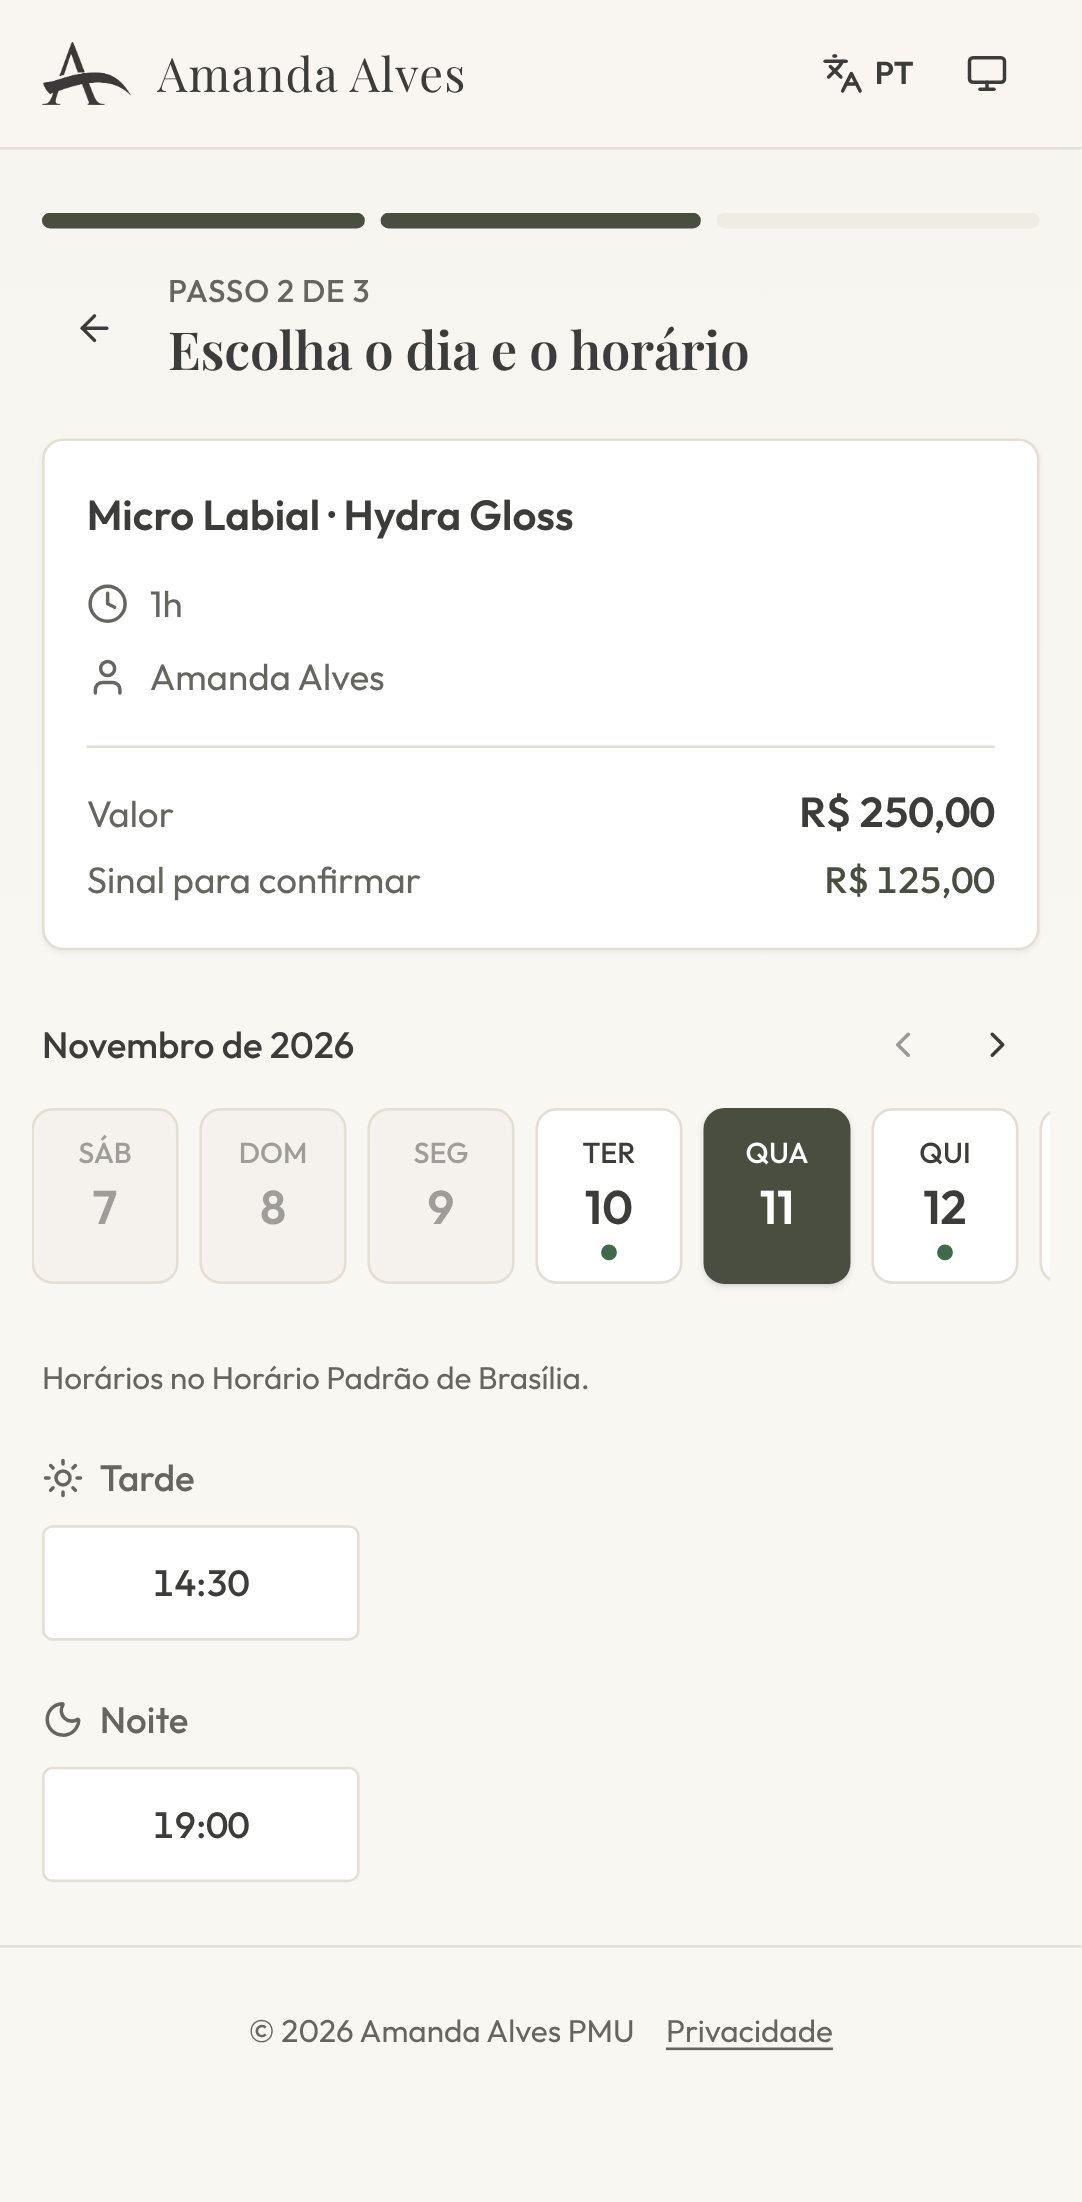
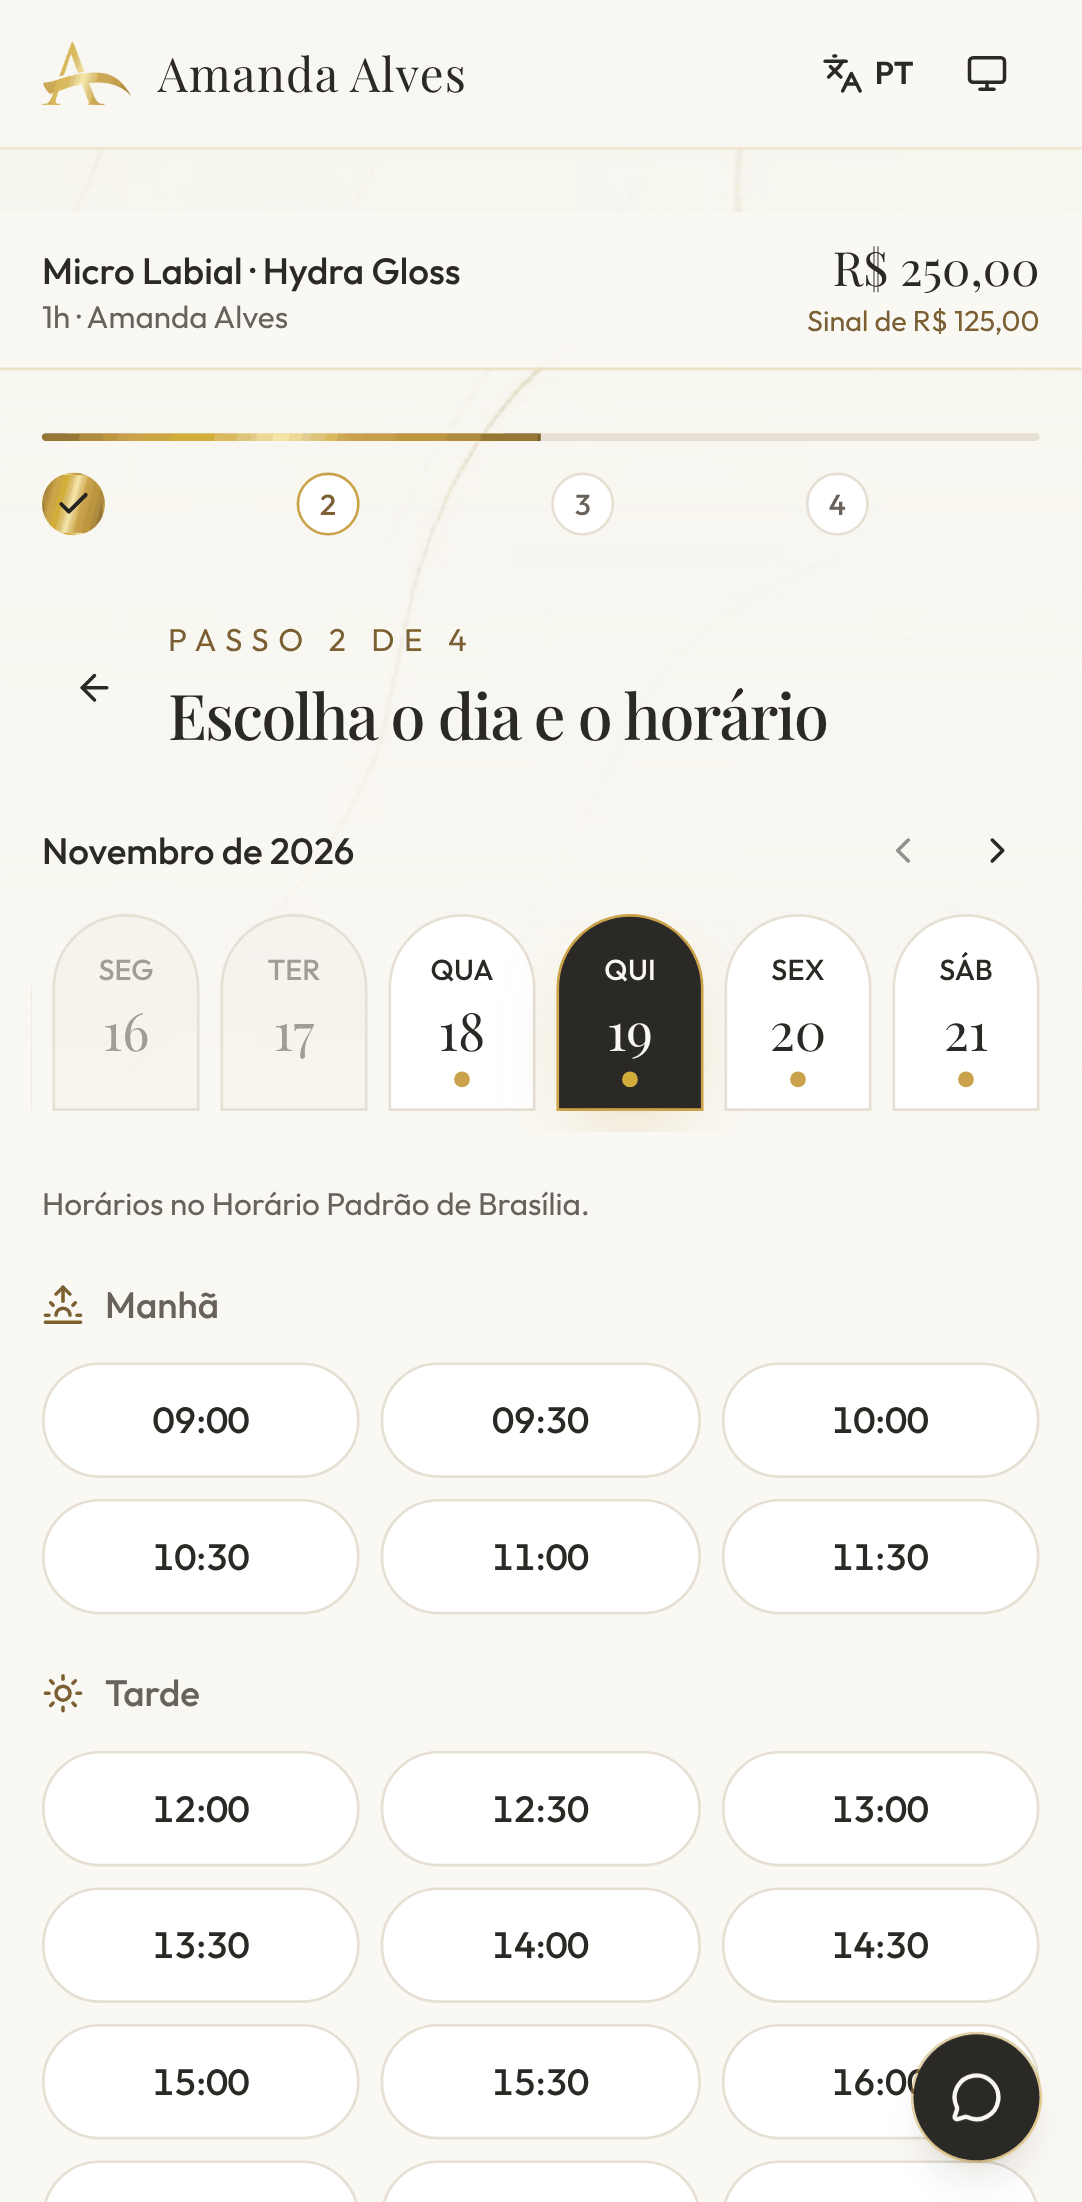
docs: linguagem visual do salão, novos tokens e capturas atualizadas
- 03-identidade-visual: o salão como referência (mármore, letreiro dourado,
  cerejeira, espelho em arco, pampas, porcelanato), paleta com contrastes
  medidos, componentes da marca e regras de movimento.
- Legenda [salão] para as fotos enviadas pela clínica; fotos do espaço
  marcadas como recebidas.
- README: capturas do celular com o novo visual (início em JPEG).

Claude-Session: https://claude.ai/code/session_01XJj2zzcky4VScEsN9baw3Q

diff --git a/docs/referencia-amanda-alves/03-identidade-visual-e-tom.md b/docs/referencia-amanda-alves/03-identidade-visual-e-tom.md
@@ -6,8 +6,11 @@ Minimalista, elegante, acolhedor e sofisticado. O foco é **naturalidade e
 autoestima**: muito espaço em branco, fotos do espaço e dos procedimentos e o
 símbolo decorativo **✦**.
 
-No app: fundo creme, cartões brancos, cantos retos, títulos em Playfair Display,
-rótulos em caixa alta espaçados e o ✦ como separador, como no site.
+No app: fundo marfim, títulos em Playfair Display, rótulos em caixa alta
+espaçados e o ✦ como separador, como no site — e, desde a versão "recepção",
+os **materiais do salão** (ver abaixo): ao abrir o app, a cliente deve sentir
+que acabou de entrar no espaço. Luxo discreto: rosa e dourado são **acentos**
+sobre uma base branca e limpa, com muito respiro.
 
 ## Tom de voz **[site]**
 
@@ -27,27 +30,46 @@ Chamadas usadas no site — use as mesmas no app:
 | “Agendar Avaliação Gratuita” | Serviço “Avaliação gratuita” (primeiro da lista) |
 | “Chamar no WhatsApp” / “Falar com a Amanda” | Botão flutuante na página pública (`VITE_WHATSAPP_CTA`) |
 
-## Paleta — **[site]** (com ajustes de acessibilidade)
+## O salão como referência **[salão]**
 
-Extraída do CSS do site oficial e aplicada como tokens em
-[`apps/web/src/index.css`](../../apps/web/src/index.css).
+As três fotos do espaço enviadas pela clínica (salão com parede de mármore e
+veios dourados, recepção com letreiro dourado iluminado, entrada com a
+cerejeira, o espelho em arco e o capim-dos-pampas) definem a linguagem visual.
+Elas aparecem na galeria "O espaço" em
+`apps/web/public/brand/espaco/` (AVIF/WebP em 480, 800 e 1125 px).
 
-| Cor do site | HEX | Uso no app |
+| Elemento do salão | Tradução no app | Onde |
 | --- | --- | --- |
-| Creme (fundo) | `#F9F7F2` | `--background` |
-| Fundo alternativo | `#EFECE6` | `--secondary` / `--muted` |
-| Texto | `#3C3C3B` | `--foreground` |
-| Texto claro | `#6E6E6E` → **`#666660`** | `--muted-foreground` (escurecido para 4,9:1 no fundo alternativo) |
-| Dourado | `#BFA070` | `--gold`: **só decoração** (✦, filetes, numeração grande) — 2,3:1 não serve para texto |
-| Dourado (texto) | **`#86683A`** | `--gold-text`: rótulos em caixa alta (4,8:1) |
-| Oliva | `#6B705C` | `--olive`, anel de foco |
-| Oliva escuro | `#4A4E40` | `--primary`: botões e links (texto branco 8,5:1) |
+| Mármore branco com veios dourados | Textura procedural leve (5–11 KB, AVIF/WebP) com veios que "se desenham" e parallax sutil | Hero, Procedimentos, faixa do agendamento |
+| Mármore escuro | Versão preta com veios dourados | Seção "Agende", cartão da avaliação |
+| Letreiro dourado iluminado | Logo em ouro (máscara + gradiente metálico) com brilho na entrada/hover e halo de LED | Hero, rodapé, cabeçalhos (monograma) |
+| Cerejeira | Ramos entrando pelos cantos, balançando como com brisa; 15–25 pétalas caindo | Hero, Depoimentos, confirmação do agendamento |
+| Espelho em arco com moldura dourada | Molduras em arco (`ArchFrame`) e dias do calendário em arco | A clínica, O espaço, resumo do agendamento |
+| Capim-dos-pampas / palha | Acento discreto em SVG | A clínica |
+| Porcelanato polido | Reflexo esmaecido da logo | Rodapé |
+| Spots quentes do trilho | Luz que acompanha o cursor (só desktop) | Hero, Agende |
 
-Tema escuro (o site não tem): fundo `#1C1D19`, texto `#F4F1EA`, primário dourado
-claro `#CDB287`; a logo é invertida automaticamente (`.brand-logo`).
+## Paleta — **[site]** + **[salão]** (com ajustes de acessibilidade)
 
-Cantos retos e discretos (4px), como no site. Contraste verificado pela
-auditoria automática (axe) nos testes E2E.
+Tokens em [`apps/web/src/index.css`](../../apps/web/src/index.css) (claro e escuro).
+
+| Papel | HEX | Uso |
+| --- | --- | --- |
+| Marfim (fundo) | `#FAF8F3` | `--background` |
+| Fundo alternativo | `#F2EEE7` | `--secondary` / `--muted` |
+| Texto | `#2B2926` | `--foreground` (13,7:1) |
+| Texto secundário | `#68625A` | `--muted-foreground` (5,7:1; 5,2:1 no alternativo) |
+| Preto fosco | `#1E1D1B` | `--ink`: seções escuras e rodapé |
+| Ouro (gradiente) | `#8A6A1F → #D4AF37 → #F6E7A8 → #C9A24B → #8A6A1F` | `--gold-metal`: logo, filetes, progresso. **Só decoração** no claro (2,3:1) |
+| Ouro dos botões | `#C9A24B → #E5C77A` | `--gold-button`, texto `#2B2926` (6,1:1) |
+| Ouro para texto | `#7C5F32` | `--gold-text`: rótulos e destaques pequenos (5,6:1; 5,1:1 no alternativo) |
+| Rosa cerejeira | `#F8E1E7 → #E79AB0` | `--blossom-*`: pétalas, fundo dos depoimentos — só detalhes |
+| Palha / greige / madeira | `#D8BFA0` / `#A39382` / `#5A3A2A` | Acentos de material |
+| Teal | `#2F5D62` | Micro-acento, com parcimônia |
+
+Tema escuro: fundo `#161513`, texto `#F4EFE6` (15,9:1), secundário `#B9B1A5`
+(8,6:1), ouro de texto `#D9B968` (9,6:1), botões em ouro `#D4AF37` com texto
+escuro (8,4:1). Regra: **ouro claro só como decoração ou sobre fundo escuro**.
 
 ## Tipografia — **[site]**
 
@@ -57,13 +79,45 @@ auditoria automática (axe) nos testes E2E.
 | Texto | **Outfit** | Mesma do site |
 | Rótulos | Outfit em caixa alta, espaçamento largo | Classe `.eyebrow` (“ESTÉTICA AVANÇADA ✦ NATURALIDADE”) |
 
-Licença SIL OFL, servidas pelo próprio app (`@fontsource-variable/*`).
+Licença SIL OFL, servidas pelo próprio app (`@fontsource-variable/*`), com
+preload das versões latinas.
+
+## Componentes da marca **[técnico]**
+
+Em `apps/web/src/components/brand/` e `components/motion/`:
+
+| Componente | Função |
+| --- | --- |
+| `MarbleBackground` | Parede de mármore (clara/escura), veios desenhados, parallax e spot de luz |
+| `GoldLogo` | Logo/monograma em ouro com brilho e halo |
+| `BlossomBranch` | Ramo de cerejeira com balanço e parallax |
+| `PetalFall` | Pétalas em canvas (ambiente ou chuva curta), carregado sob demanda |
+| `ArchFrame` | Moldura em arco com filete dourado |
+| `GlassCard` | Cartão de vidro fosco com borda dourada e reflexo no hover |
+| `GoldButton` | CTA em ouro, magnético no desktop, preenchimento de luz no hover |
+| `SpaceGallery` | Galeria assimétrica com lightbox (setas do teclado e botões) |
+| `Reveal` / `RevealText` | Entrada ao rolar e revelação de título palavra por palavra |
+| `PageTransition` | Links com transição "de porta" (View Transitions do navegador) |
+| `CursorLight`, `SmoothScroll` | Luz no cursor e rolagem suave (Lenis), só desktop |
+
+## Movimento **[técnico]**
+
+- Só `transform` e `opacity`, 300–800 ms, curva `cubic-bezier(0.22, 1, 0.36, 1)`.
+- Nada atrapalha a leitura ou o agendamento: o título aparece primeiro, a
+  decoração chega depois; no fluxo de agendamento, só transições curtas.
+- **Movimento reduzido** (configuração do aparelho): tudo aparece sem animação,
+  sem pétalas, sem rolagem suave e sem cursor de luz.
+- Pétalas também ficam desligadas em economia de dados ou aparelhos modestos,
+  e pausam fora da tela ou com a aba oculta.
+- Toque: nunca há cursor personalizado nem efeito magnético.
 
 ## Logo e imagens
 
-- **Logo do app:** a logo oficial do site (`apps/web/public/brand/logo-amanda-alves.png`),
-  com fundo transparente; aparece na página inicial, no login e nos e-mails.
+- **Logo do app:** a logo oficial do site (`apps/web/public/brand/logo-amanda-alves.webp`),
+  pintada em ouro pelo app; aparece na página inicial, no login e nos e-mails.
 - **Monograma “A”** (favicon do site): ícone do app instalável (PWA), favicon e
-  cabeçalhos (`public/brand/monograma.png`, `pwa-*.png`, `apple-touch-icon.png`).
+  cabeçalhos (`public/brand/monograma.webp`, `pwa-*.png`, `apple-touch-icon.png`).
 - Para trocar por uma versão vetorial, substitua esses arquivos mantendo os nomes.
-- **Fotos:** ainda não usadas (ver [assets/README.md](assets/README.md)).
+- **Fotos do espaço:** as três enviadas pela clínica, na galeria "O espaço" e
+  em molduras de arco. Fotos de procedimentos e da Amanda continuam pendentes
+  (ver [assets/README.md](assets/README.md)).

diff --git a/docs/referencia-amanda-alves/assets/README.md b/docs/referencia-amanda-alves/assets/README.md
@@ -7,7 +7,7 @@ autorizar ou enviar os arquivos.
 | Item | Formato ideal | Uso no app | Status |
 | --- | --- | --- | --- |
 | **Logo em vetor** | SVG (ou PDF/AI); versões clara e escura; símbolo isolado | Substituir o PNG extraído do site (mais nitidez em telas grandes e impressos) | PNG do site em uso; vetor pendente |
-| **Fotos do espaço** | JPG/PNG, ≥ 2000 px no lado maior, horizontais e verticais | Página da clínica e galeria “O Espaço” | Pendente |
+| **Fotos do espaço** | JPG/PNG, ≥ 2000 px no lado maior, horizontais e verticais | Página da clínica e galeria “O Espaço” | **Recebidas** (3 fotos: salão, recepção, entrada); mais fotos são bem-vindas |
 | **Fotos de procedimentos** | JPG/PNG, boa luz, fundo neutro | Cartões dos serviços | Pendente |
 | **Antes e depois** | JPG/PNG + **autorização de uso de imagem assinada por cada cliente** | Galeria de resultados | Pendente |
 | **Foto profissional da Amanda** | JPG/PNG, retrato, ≥ 1200 px | Perfil da profissional na página de agendamento | Pendente |

diff --git a/docs/referencia-amanda-alves/00-LEIA-ME.md b/docs/referencia-amanda-alves/00-LEIA-ME.md
@@ -30,7 +30,8 @@ regras.
 ## Origem de cada informação
 
 Legenda: **[site]** site oficial · **[demo]** dado fictício de demonstração ·
-**[técnico]** decisão técnica do projeto · **[confirmar]** pendente com a cliente.
+**[técnico]** decisão técnica do projeto · **[confirmar]** pendente com a cliente ·
+**[salão]** fotos do espaço enviadas pela clínica.
 
 | Informação | Origem |
 | --- | --- |
